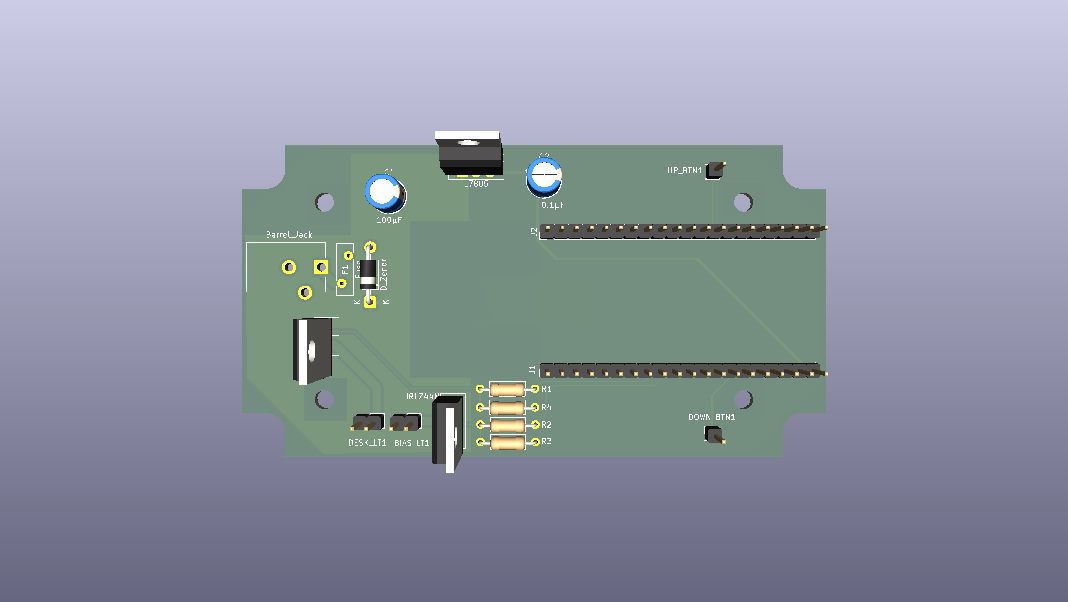
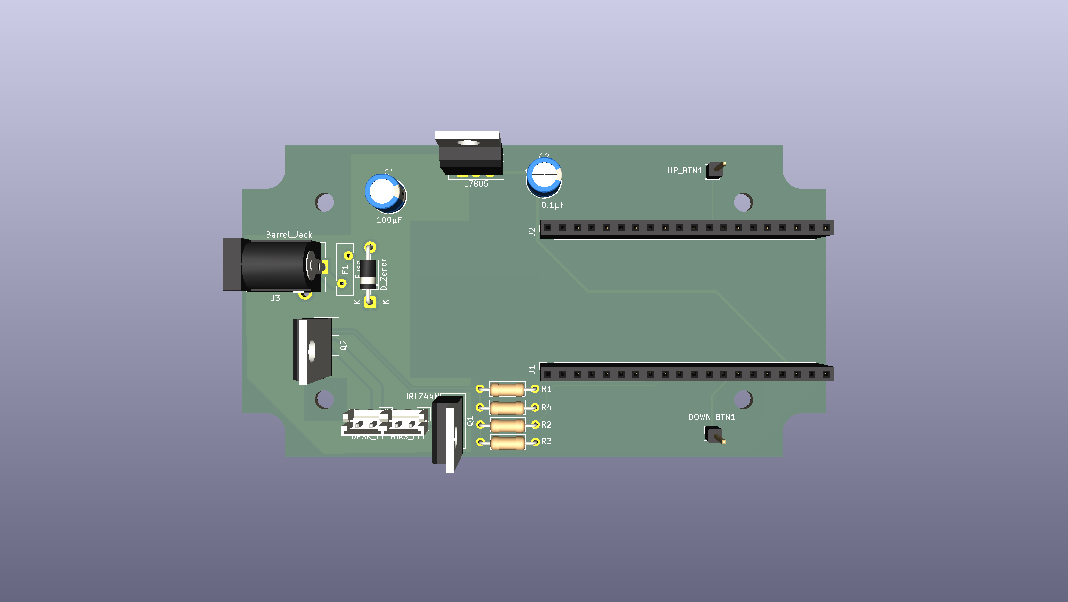
Updated pics for Blinkrite

diff --git a/index.html b/index.html
@@ -549,7 +549,7 @@ tailwind.config = {
       { src: 'assets/blinkrite-breadboard.png', caption: '02 · Proof of concept — first working circuit' },
       { type: 'model', src: 'assets/blinkrite-lightbar.glb', poster: 'assets/blinkrite-lightbar-render.png', explode: true, explodeRoot: 'Assembly', zoom: 1.15, explodeScale: 0.5, caption: '03 · CAD design — light bar assembly · drag to rotate · slide to explode' },
       { src: 'assets/blinkrite-lamp-frame.png', caption: '04 · Fabrication — 3D-printed lamp frame' },
-      { type: 'model', src: 'assets/blinkrite-pcb.glb', poster: 'assets/blinkrite-pcb-render.png', caption: '05 · PCB design — custom board in KiCad · drag to rotate' },
+      { type: 'model', src: 'assets/blinkrite-pcb.glb?v=2', poster: 'assets/blinkrite-pcb-render.png', caption: '05 · PCB design — custom board in KiCad · drag to rotate' },
       { src: 'assets/blinkrite-pcb-halfway.png', caption: '06 · Assembly — PCB build in progress' },
     ],
     aoi: [